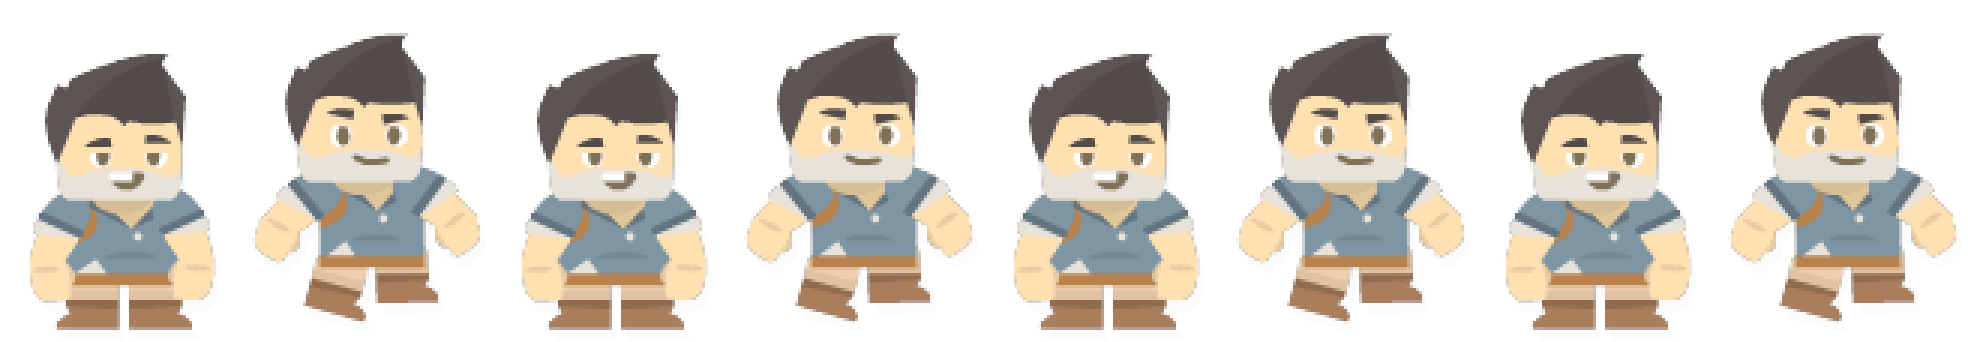
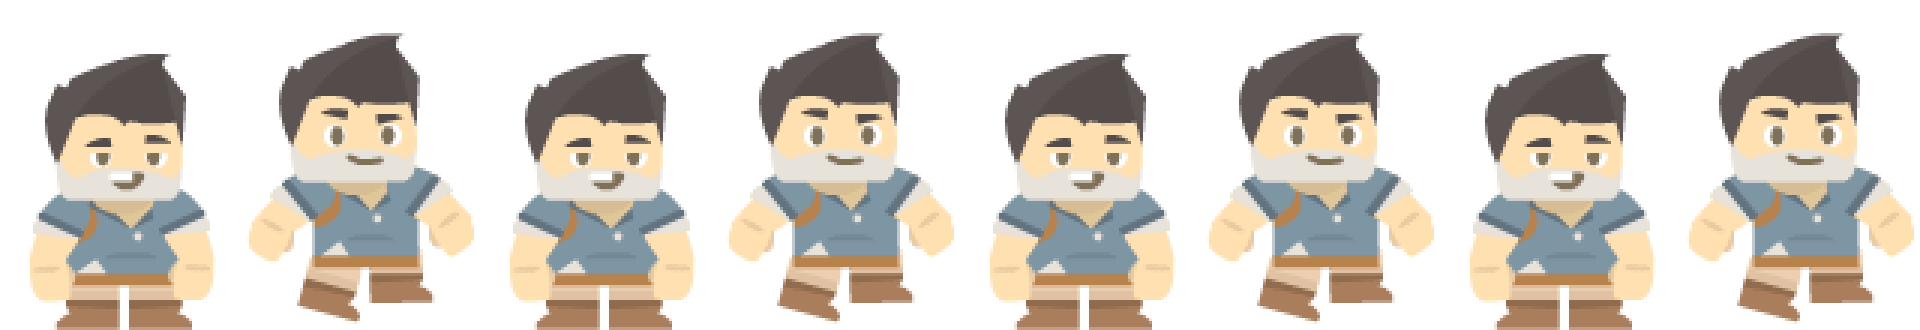
Keep Adventurer sheets clean; apply drop shadow at runtime.
Restore frames from the original tilesheet. Visual direction now specifies a duplicate tinted sprite (or Phaser 4 shadow filter) instead of baking the shadow into pixels.

diff --git a/docs/mockups/phase1-overall/char-compare-desktop.html b/docs/mockups/phase1-overall/char-compare-desktop.html
@@ -23,10 +23,10 @@
     .fig.robot { left: 26%; }
     .fig.adv {
       left: 74%;
-      width: 96px;
+      width: 92px;
       image-rendering: pixelated;
       bottom: calc(46% + 62px);
-      filter: none;
+      filter: drop-shadow(2px 4px 0 rgba(22, 50, 79, 0.35));
     }
     body.desktop .fig.robot { left: 27%; }
     body.desktop .fig.adv { left: 73%; }

diff --git a/docs/mockups/phase1-overall/char-compare-mobile.html b/docs/mockups/phase1-overall/char-compare-mobile.html
@@ -23,10 +23,10 @@
     .fig.robot { left: 26%; }
     .fig.adv {
       left: 74%;
-      width: 96px;
+      width: 92px;
       image-rendering: pixelated;
       bottom: calc(46% + 62px);
-      filter: none;
+      filter: drop-shadow(2px 4px 0 rgba(22, 50, 79, 0.35));
     }
     body.desktop .fig.robot { left: 27%; }
     body.desktop .fig.adv { left: 73%; }

diff --git a/docs/visual-direction.md b/docs/visual-direction.md
@@ -15,7 +15,7 @@ Locked in Phase 1. Do not reopen unless Mike changes them.
 | Menu | **Toy buttons** — big navy buttons, selected gold, gold **Start Climb**. Robot (or chosen character) waits on the ground. |
 | End overlay | **Report card** — cream paper sheet, “You fell!” / “You made it!”, platform count, NEW RECORD pill, Climb again, Change setup |
 | Title type | Paytone One wordmark in the sky |
-| Player | **Adventurer** from `reference assets/adventurer_tilesheet.png` (80×110 cells). Idle `0,0` / `1,8`. Jump duck `1,0` → air `0,4` → kick `2,2`. **Drop shadow is part of the sprite:** navy `#16324F` at 35% opacity, offset 2px right and 4px down at 1× (scale with nearest-neighbor). Do not omit it in the atlas or in-engine. Foozle robot unused. |
+| Player | **Adventurer** from `reference assets/adventurer_tilesheet.png` (80×110 cells). Idle `0,0` / `1,8`. Jump duck `1,0` → air `0,4` → kick `2,2`. Nearest-neighbor scale. **Drop shadow is runtime, not baked:** navy `#16324F` at 35% opacity, offset 2px right / 4px down (at 1× display). Foozle robot unused. |
 
 Play column ~420px centered. Desktop landscape expands the sky on both sides. Mobile is the column only.
 
@@ -27,4 +27,8 @@ Play column ~420px centered. Desktop landscape expands the sky on both sides. Mo
 
 ## Not yet produced (Phase 2)
 
-Adventurer atlas from the tilesheet (idle + jump, transparent, integer scale) **with the navy drop shadow baked into every frame**. Sod platforms as Phaser graphics or a sprite. Pause/CTA as Phaser + type matching A Classic.
+Adventurer atlas from the tilesheet (idle + jump, transparent, integer scale, **no baked shadow**). Apply the navy offset shadow in Phaser at runtime (see below). Sod platforms as Phaser graphics or a sprite. Pause/CTA as Phaser + type matching A Classic.
+
+### Adventurer shadow (Phase 2)
+
+Do **not** paint the shadow into the sheet. Preferred: a second sprite behind the player (same texture/frame, tinted `#16324F`, alpha 0.35, position +2/+4 at 1×). That matches the paper world's hard offset. Alternative: Phaser 4 `sprite.enableFilters(); sprite.filters.internal.addShadow(...)` (WebGL only, softer/sampled). Tune offset/alpha in `constants.ts`.

diff --git a/docs/logs/plan-log.md b/docs/logs/plan-log.md
@@ -96,6 +96,10 @@ Player = **Adventurer** (tilesheet + drop shadow). Full visual direction in `doc
 
 Navy `#16324F` @ 35%, offset 2px right / 4px down at 1×, scaled with nearest-neighbor. Applied to idle, jump, and both 8-frame sheets. Compare mockup uses the baked PNG (no CSS filter). Phase 2 atlas must keep this on every frame.
 
+## 2026-09-14 — Un-bake adventurer shadow
+
+Mike pushed back on modifying the spritesheet. Restored clean frames from `adventurer_tilesheet.png`. Shadow is a Phase 2 **runtime** effect (duplicate tinted sprite preferred; Phaser 4 `filters.internal.addShadow` as alt). Mockups preview it with CSS `drop-shadow`.
+
 
 
 

diff --git a/docs/mockups/phase1-characters/README.md b/docs/mockups/phase1-characters/README.md
@@ -13,4 +13,4 @@ In-game composites: `docs/mockups/phase1-overall/char-r*-mobile.png`. Paper cuto
 
 Adventurer jump frames from the Kenney-style sheet: duck `1,0` → air `0,4` → kick `2,2`. Idle: `0,0` and `1,8`.
 
-**Drop shadow is baked into** `r4-adventurer-idle.png`, `r4-adventurer-jump.png`, and both sheets: navy `#16324F` @ 35%, offset 2×4 px at 1× (4×8 at 2×, 6×12 at 3× sheets). Phase 2 must keep this on every frame.
+**Drop shadow is not baked.** Phase 2 applies it at runtime (duplicate sprite behind the player, or Phaser 4 `filters.internal.addShadow`). Mockups use a CSS `drop-shadow` to preview.
